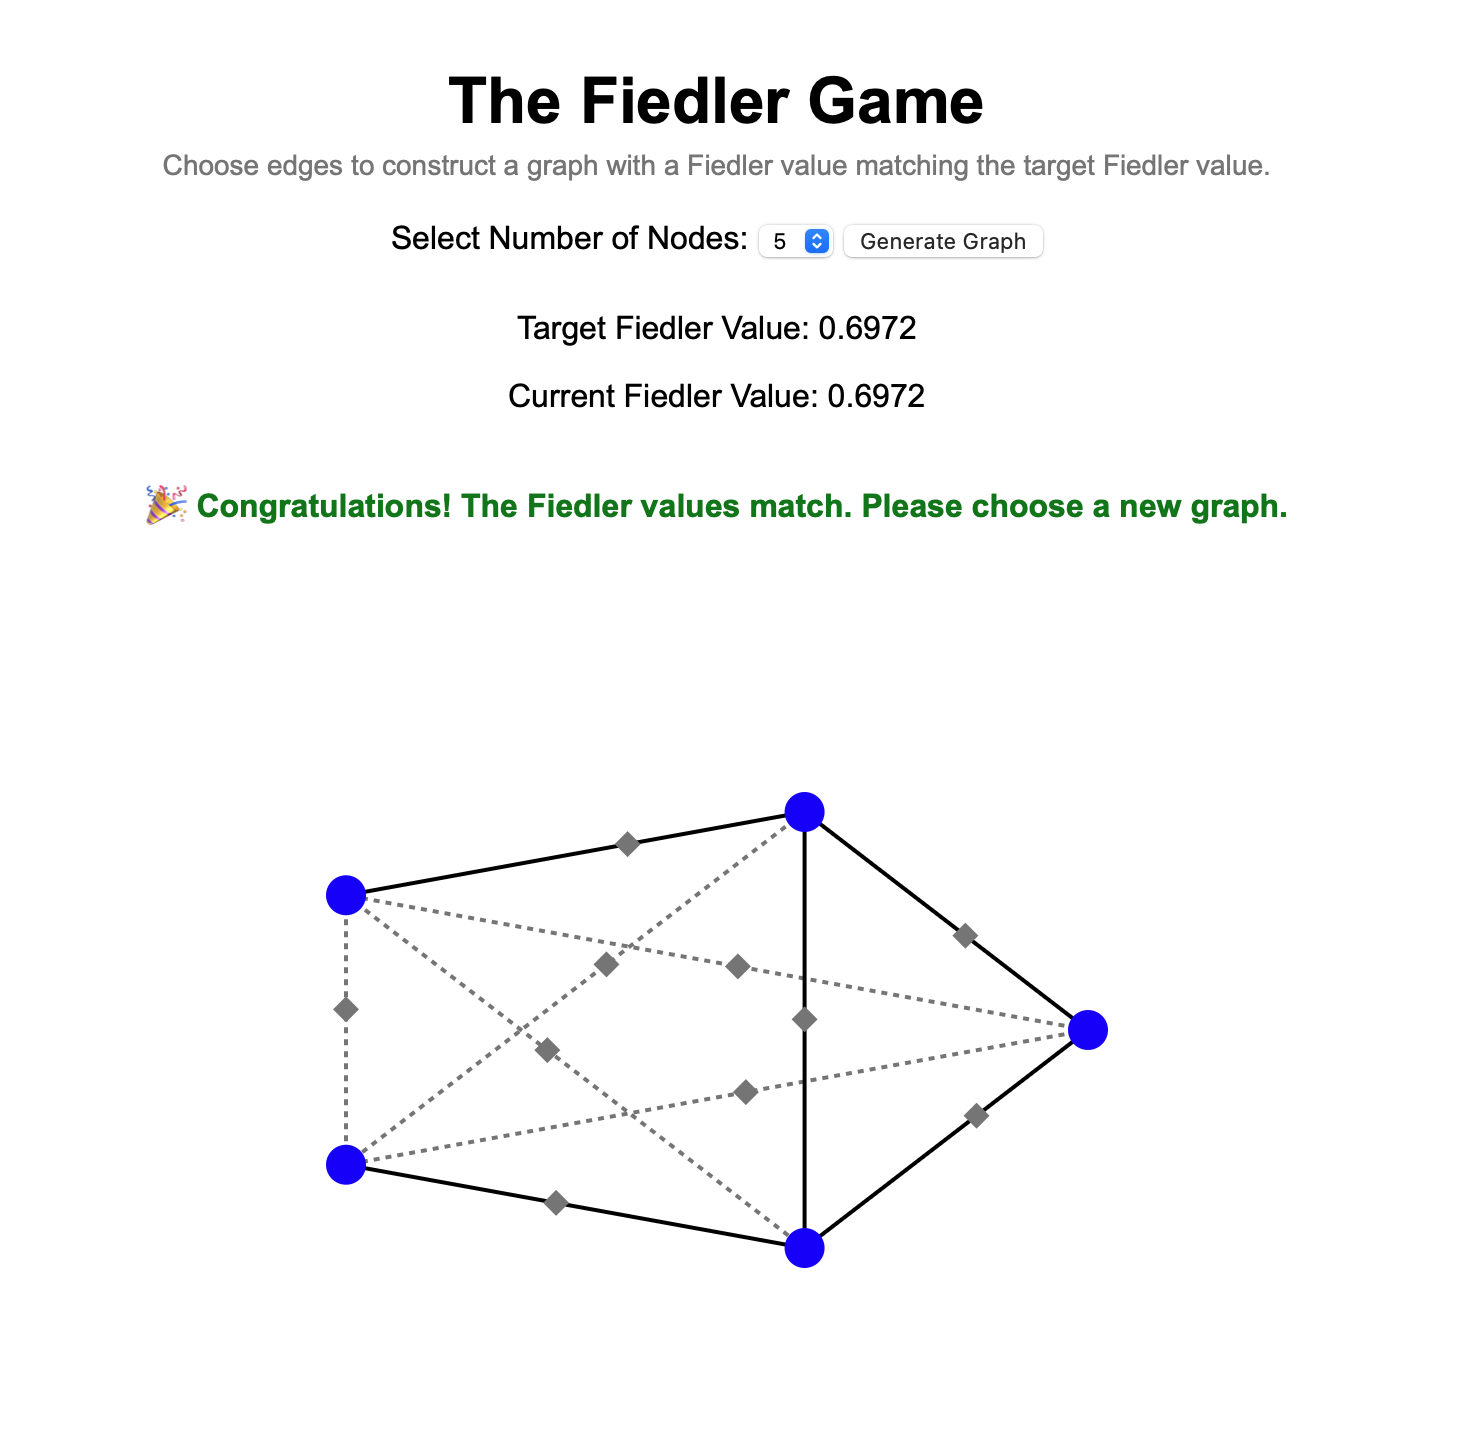
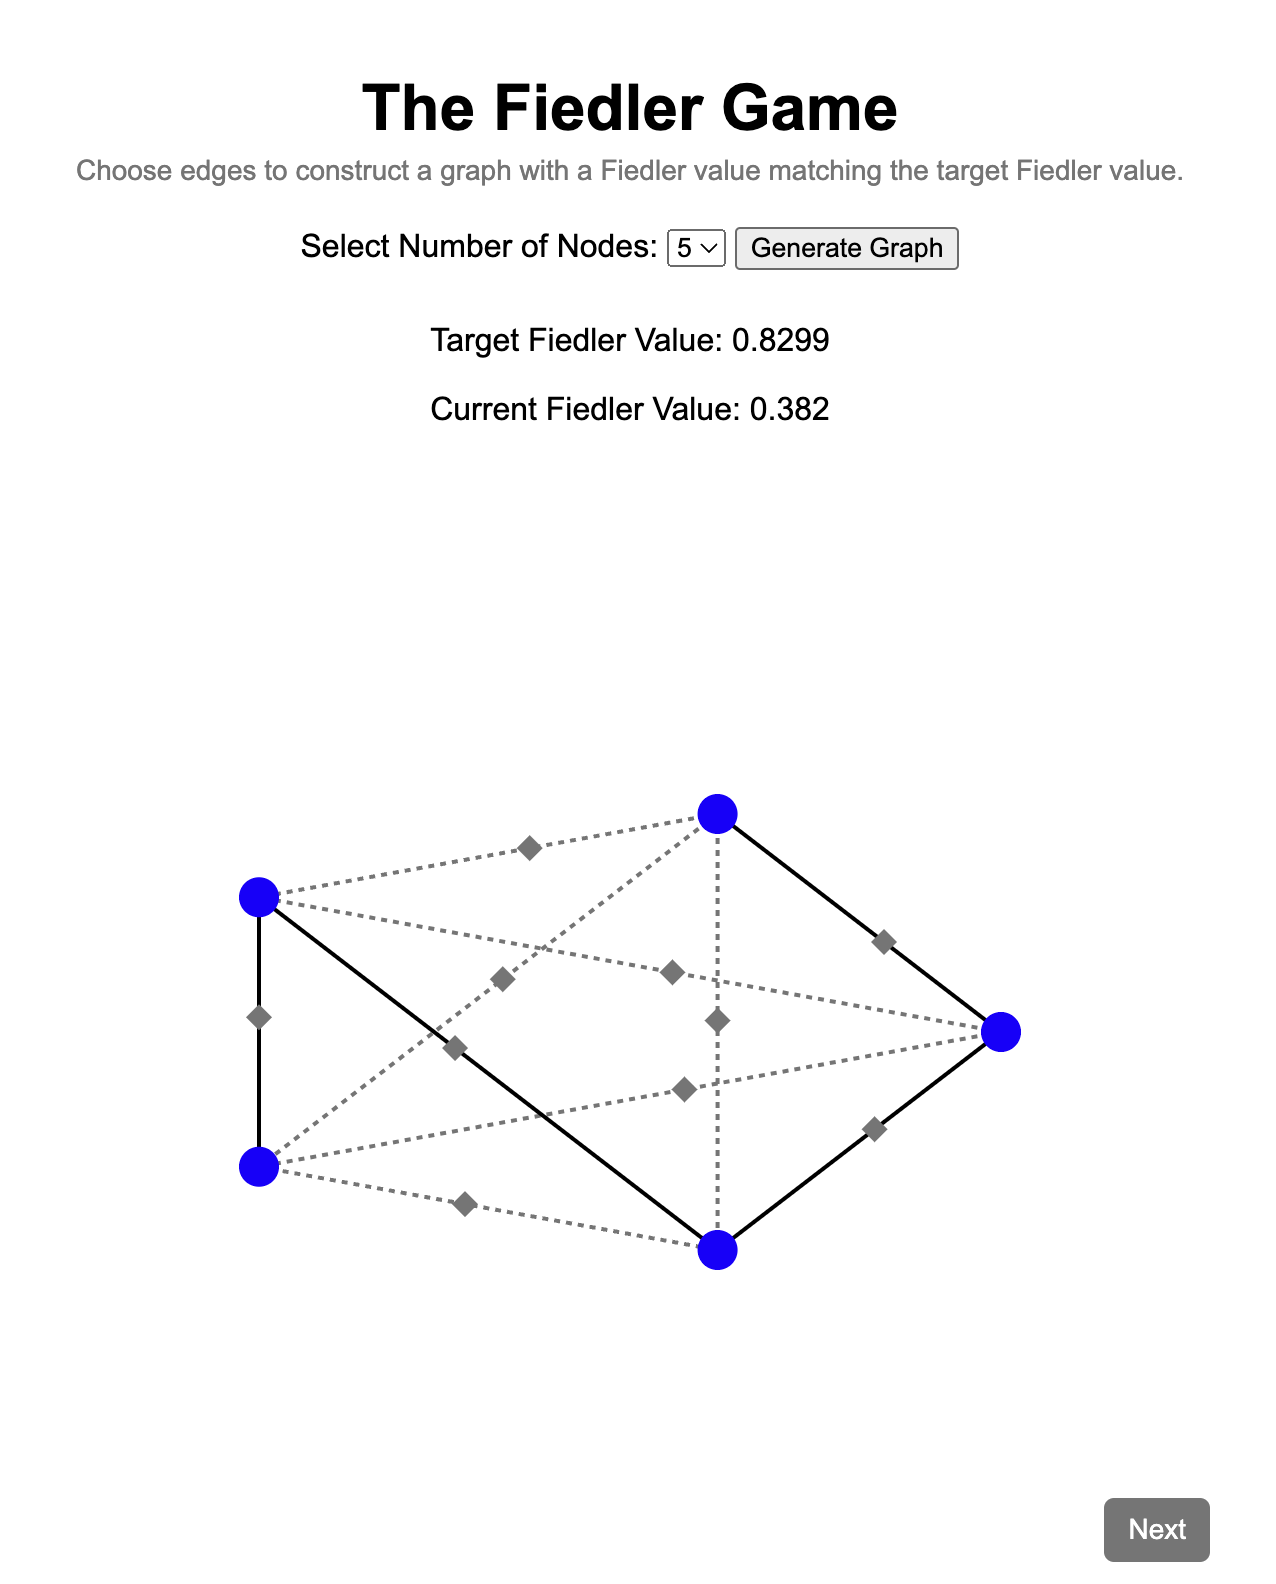
Added game/next functionality

diff --git a/static/script.js b/static/script.js
@@ -1,8 +1,21 @@
 let possibleEdges = [];
 let selectedEdges = [];
 let nodes = [];
+let requiredToggles = 1;  // Number of toggles required to match target
+
+function resetGraph() {
+    requiredToggles = 1;  // Reset difficulty when node count changes
+    initializeGraph();
+}
+
+function getEventListenerCount() {
+    let graphDiv = document.getElementById("graph");
+    return (graphDiv.__plotlyEventListeners || {}).plotly_click?.length || 0;
+}
 
 function initializeGraph() {
+    console.log("🔄 Generating new graph... Current event listeners:", getEventListenerCount());
+
     let numNodes = document.getElementById("numNodes").value;
 
     fetch("/initialize_graph", {
@@ -10,20 +23,37 @@ function initializeGraph() {
         headers: { "Content-Type": "application/json" },
         body: JSON.stringify({
             graphType: "complete",
-            numNodes: parseInt(numNodes)
+            numNodes: parseInt(numNodes),
+            requiredToggles: requiredToggles // Ensure difficulty level is sent
         })
     })
     .then(response => response.json())
     .then(data => {
         possibleEdges = data.possibleEdges;
-        selectedEdges = [];
+        selectedEdges = data.initialEdges || [];  // Ensure selectedEdges is initialized
         document.getElementById("targetValue").innerText = data.targetFiedlerValue;
-        document.getElementById("currentValue").innerText = "0"; // Reset to 0
-        document.getElementById("congratsMessage").innerText = ""; // Clear message
+        document.getElementById("currentValue").innerText = data.initialFiedlerValue; 
+        document.getElementById("congratsMessage").innerText = "";
+        document.getElementById("nextButton").disabled = true;  // Disable "Next" initially
         generateNodePositions();
         drawGraph();
-    });
+    })
+    .catch(error => console.error("Error initializing graph:", error));
 }
+
+
+function generateNextGraph() {
+    if (requiredToggles < 3) {
+        requiredToggles++;  
+        initializeGraph();
+    }
+    
+    if (requiredToggles === 3) {
+	document.getElementById("congratsMessage").innerText = "Challenge Complete!";
+        document.getElementById("nextButton").disabled = true;  // Disable after third iteration
+    }
+}
+
 
 function generateNodePositions() {
     let numNodes = document.getElementById("numNodes").value;
@@ -34,12 +64,15 @@ function generateNodePositions() {
     }));
 }
 
-function drawGraph() {
-    console.log("📌 drawGraph() called!");
 
+function drawGraph() {
     let traces = [];
 
-    // Draw edges (solid or dashed)
+    if (!nodes.length || !possibleEdges.length) {
+        console.error("Graph data is missing!"); // Debugging output
+        return;
+    }
+
     possibleEdges.forEach(edge => {
         let [source, target] = edge;
         let isSelected = selectedEdges.some(e => e[0] === source && e[1] === target);
@@ -51,7 +84,7 @@ function drawGraph() {
             line: { dash: isSelected ? "solid" : "dot", width: 2, color: isSelected ? "black" : "gray" },
             hoverinfo: "none",
             customdata: [[source, target]],
-            name: "" // Hides legend
+            name: ""
         });
 
         // Compute midpoint
@@ -68,26 +101,24 @@ let length = Math.sqrt(dx * dx + dy * dy);
 let variedX = midX + offsetFactor * dx / length;
 let variedY = midY + offsetFactor * dy / length;
 
-traces.push({
-    x: [variedX],
-    y: [variedY],
-    mode: "markers",
-    marker: { size: 10, color: "gray", symbol: "diamond" },
-    hoverinfo: "text",
-    text: `Click to toggle edge: (${source}, ${target})`,
-    customdata: [[source, target]]
-});
-
+        traces.push({
+            x: [variedX],
+            y: [variedY],
+            mode: "markers",
+            marker: { size: 10, color: "gray", symbol: "diamond" },
+            hoverinfo: "text",
+            text: `Click to toggle edge: (${source}, ${target})`,
+            customdata: [[source, target]]
+        });
     });
 
-    // Draw nodes
     traces.push({
         x: nodes.map(n => n.x),
         y: nodes.map(n => n.y),
         mode: "markers",
         marker: { size: 20, color: "blue" },
         hoverinfo: "none",
-        name: "" // Hides legend
+        name: ""
     });
 
     let graphDiv = document.getElementById("graph");
@@ -97,44 +128,37 @@ traces.push({
         xaxis: { showgrid: false, zeroline: false, visible: false },
         yaxis: { showgrid: false, zeroline: false, visible: false },
         clickmode: "event+select",
-        showlegend: false // Removes "trace 0"
+        showlegend: false
     }).then(() => {
-        console.log("📌 Attaching click event to Plotly graph...");
-
         graphDiv.on("plotly_click", function (data) {
-            console.log("🎯 Click detected on graph!");
-            console.log("📝 Full click event data:", data);
+    if (data.points.length > 0) {
+        data.points.forEach(point => {
+            if (point.customdata) {
+                let clickedEdge = point.customdata;
+                let index = selectedEdges.findIndex(e => e[0] === clickedEdge[0] && e[1] === clickedEdge[1]);
 
-            if (data.points.length > 0) {
-                data.points.forEach(point => {
-                    console.log("📌 Clicked Point:", point);
-                    console.log("🔵 Clicked Edge Data (customdata):", point.customdata);
+                if (index === -1) {
+                    selectedEdges.push(clickedEdge);
+                } else {
+                    selectedEdges.splice(index, 1);
+                }
 
-                    if (point.customdata && Array.isArray(point.customdata) && point.customdata.length === 2) {
-                        let clickedEdge = point.customdata;
-
-                        let index = selectedEdges.findIndex(e => e[0] === clickedEdge[0] && e[1] === clickedEdge[1]);
-
-                        if (index === -1) {
-                            console.log("✅ Selecting edge:", clickedEdge);
-                            selectedEdges.push(clickedEdge);
-                        } else {
-                            console.log("❌ Deselecting edge:", clickedEdge);
-                            selectedEdges.splice(index, 1);
-                        }
-
-                        updateGraph(clickedEdge);
-                    } else {
-                        console.error("❌ Error: Invalid edge format received:", point.customdata);
-                    }
-                });
+                // Update only the clicked edge instead of redrawing everything
+                updateGraph();
             }
         });
+    }
+});
+
     });
 }
 
 
 function updateGraph() {
+    console.log("🔍 updateGraph() called!");
+
+    document.getElementById("currentValue").innerText = "Updating...";
+
     fetch("/update_graph", {
         method: "POST",
         headers: { "Content-Type": "application/json" },
@@ -145,12 +169,12 @@ function updateGraph() {
         document.getElementById("currentValue").innerText = data.currentFiedlerValue;
 
         if (data.currentFiedlerValue == document.getElementById("targetValue").innerText) {
-            document.getElementById("congratsMessage").innerText =
-                "🎉 Congratulations! The Fiedler values match. Please choose a new graph.";
+            document.getElementById("congratsMessage").innerText = "🎉 Congratulations! Press Next to continue.";
+            document.getElementById("nextButton").disabled = false;  
         } else {
             document.getElementById("congratsMessage").innerText = "";
-        }
-
-        drawGraph();
-    });
+        } 
+	drawGraph();
+    })
+    .catch(error => console.error("Error updating graph:", error));
 }

diff --git a/templates/index.html b/templates/index.html
@@ -35,6 +35,7 @@
         .graph-container {
             width: 100%;
             max-width: 600px;
+            position: relative;
         }
         .fiedler-values {
             margin-bottom: 10px;
@@ -44,6 +45,22 @@
             color: green;
             margin-top: 5px;
             min-height: 20px;
+        }
+        #nextButton {
+            position: absolute;
+            right: 10px;
+            bottom: -50px;
+            padding: 8px 12px;
+            font-size: 14px;
+            cursor: pointer;
+            background-color: #007BFF;
+            color: white;
+            border: none;
+            border-radius: 5px;
+        }
+        #nextButton:disabled {
+            background-color: gray;
+            cursor: not-allowed;
         }
     </style>
 </head>
@@ -55,12 +72,10 @@
 
         <div class="controls">
             <label for="numNodes">Select Number of Nodes:</label>
-            <select id="numNodes">
+            <select id="numNodes" onchange="resetGraph()">
                 <option value="4">4</option>
                 <option value="5" selected>5</option>
                 <option value="6">6</option>
-                <option value="7">7</option>
-                <option value="8">8</option>
             </select>
             <button onclick="initializeGraph()">Generate Graph</button>
         </div>
@@ -74,6 +89,7 @@
 
         <div class="graph-container">
             <div id="graph"></div>
+            <button id="nextButton" onclick="generateNextGraph()" disabled>Next</button>
         </div>
     </div>
 

diff --git a/app.py b/app.py
@@ -25,6 +25,7 @@ def create_graph(graph_type, num_nodes):
 
     return G
 
+import gc
 def compute_fiedler_value(G):
     """Computes the Fiedler value (2nd smallest eigenvalue of the Laplacian)."""
     if nx.number_of_edges(G) == 0:
@@ -32,7 +33,13 @@ def compute_fiedler_value(G):
     
     L = nx.laplacian_matrix(G).toarray()
     eigenvalues = np.linalg.eigvalsh(L)
-    return round(eigenvalues[1], 4) if len(eigenvalues) > 1 else 0
+    if len(eigenvalues) > 1:
+        Fv = round(eigenvalues[1], 4)
+    else:
+        Fv = 0
+    del L, eigenvalues
+    gc.collect()
+    return Fv
 
 @app.route("/")
 def index():
@@ -44,25 +51,43 @@ def initialize_graph():
     """Handles graph initialization from the frontend."""
     global graph_type, num_nodes, edges, target_fiedler_value
     data = request.get_json()
-    graph_type = data["graphType"]
-    num_nodes = data["numNodes"]
+    
+    graph_type = data.get("graphType", "complete")
+    num_nodes = data.get("numNodes", 5)
+    required_toggles = data.get("requiredToggles", 1)  # Default to 1 if missing
 
     G = create_graph(graph_type, num_nodes)
-    edges = []  # Start with no real edges
     possible_edges = list(G.edges())
 
-    # Ensure the selected target Fiedler value is greater than 0
+    # Ensure an initial graph where toggling 'required_toggles' edges will match the target
+    temp_G = nx.Graph()
+    temp_G.add_nodes_from(range(num_nodes))
+    chosen_edges = random.sample(possible_edges, max(1, len(possible_edges) // 2))
+    temp_G.add_edges_from(chosen_edges)
+    
+    # Compute a valid target Fiedler value
     while True:
-        temp_G = nx.Graph()
-        temp_G.add_nodes_from(range(num_nodes))
-        chosen_edges = random.sample(possible_edges, max(1, len(possible_edges) // 2))
-        temp_G.add_edges_from(chosen_edges)
         target_fiedler_value = compute_fiedler_value(temp_G)
-        
         if target_fiedler_value > 0:
-            break  # Only accept positive target Fiedler values
+            break
+    
+    # Modify the graph to require exactly `required_toggles` edge changes
+    initial_edges = chosen_edges[:]
+    for _ in range(required_toggles):
+        if initial_edges:
+            initial_edges.pop()  # Remove edges to force the needed toggles
+    new_G = nx.Graph()
+    new_G.add_nodes_from(range(num_nodes))
+    new_G.add_edges_from(initial_edges)
 
-    return jsonify({"possibleEdges": possible_edges, "targetFiedlerValue": target_fiedler_value})
+    return jsonify({
+    	"possibleEdges": possible_edges,
+    	"initialEdges": initial_edges,
+    	"targetFiedlerValue": target_fiedler_value,
+    	"initialFiedlerValue": compute_fiedler_value(new_G)  # Send the computed value
+	})
+
+
 
 
 @app.route("/update_graph", methods=["POST"])
